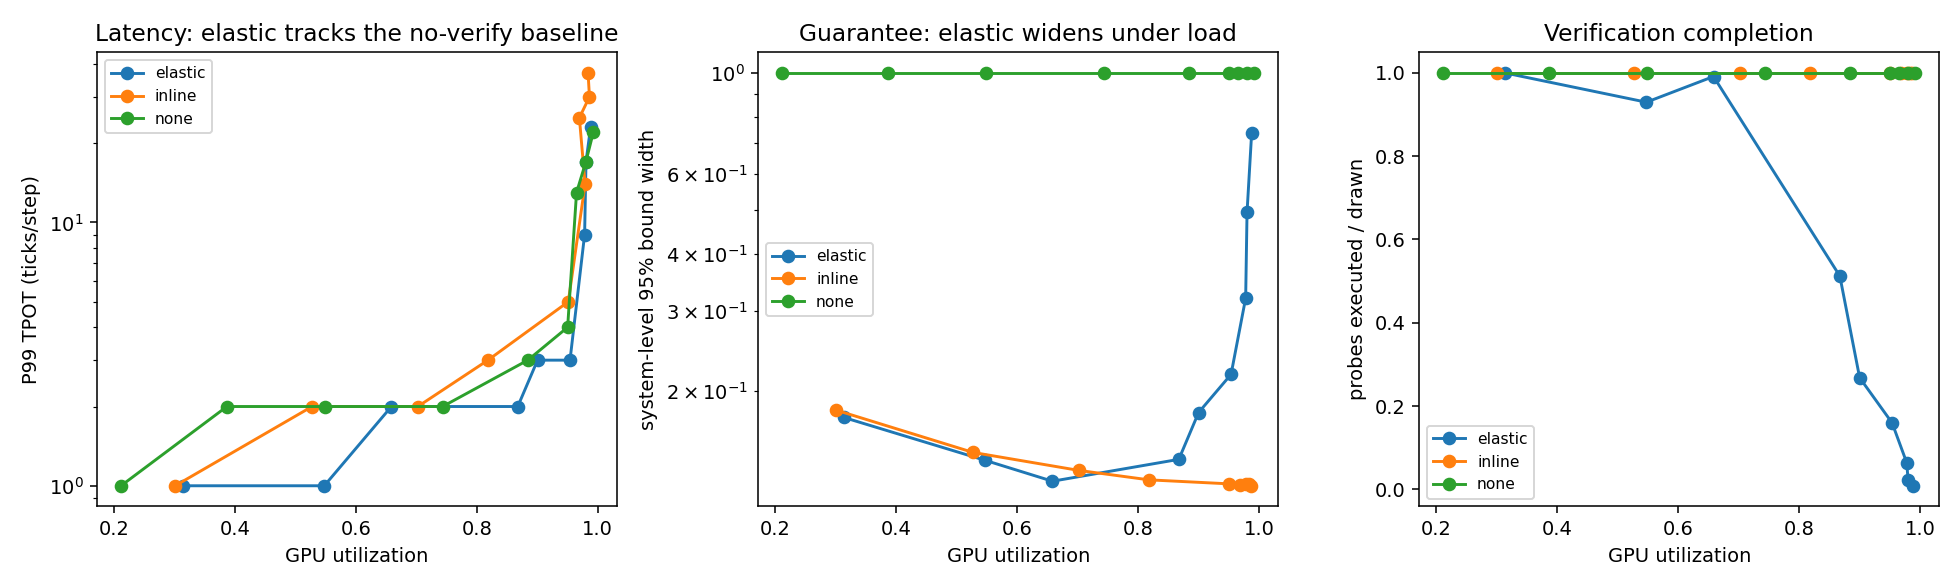
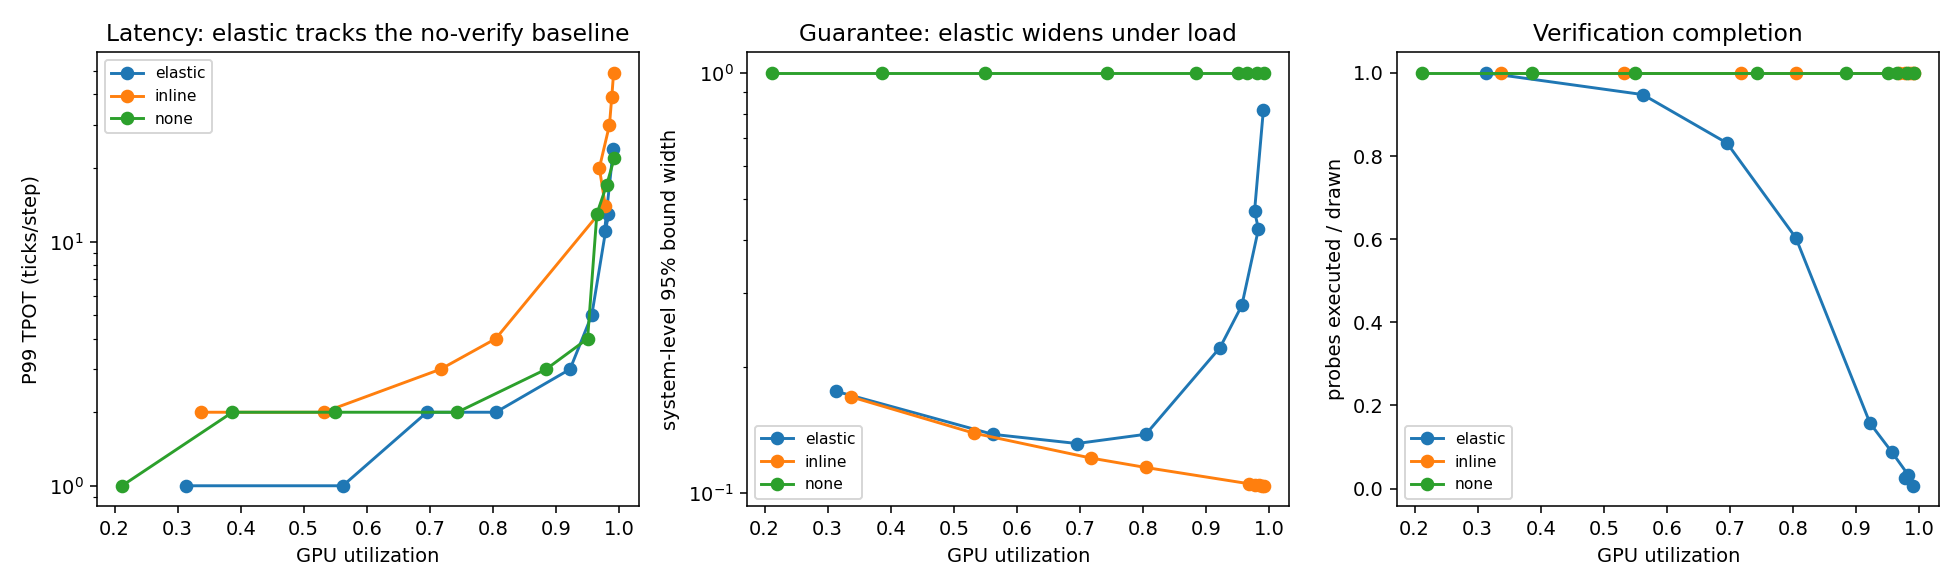
Study C: per-step probe demand, infeasibility flag, probe-cost sensitivity
- Probe demand is now decided once per decode step rather than re-rolled on
  every retry. Re-rolling let a congested request keep rolling until it drew
  "no probe", silently lowering verification coverage exactly when
  verification matters most -- and making the policies face different demand.
- A configuration where one step plus its inline probe exceeds total capacity
  can never be served. Those requests stall forever and drop out of the
  statistics, so the survivors' latency looks excellent. Now flagged, and the
  summary refuses to report numbers for such configurations.
- Probe-cost sensitivity sweep (r = 1.5 .. 12), because r is the least certain
  parameter obtainable from this hardware and the elastic claim must survive a
  range of it rather than one convenient value.

Result: elastic P99 TPOT is flat at 6.3 ticks/step across the whole range
while inline degrades 14 -> 18 -> 32; elastic pays in bound width instead
(0.26 -> 0.35 -> 0.73 -> vacuous). That is the claimed inversion, and it is
robust to the parameter it is most sensitive to.

diff --git a/csa/scheduler.py b/csa/scheduler.py
@@ -25,6 +25,7 @@ from __future__ import annotations
 
 import math
 from dataclasses import dataclass, field
+from typing import Optional
 
 import numpy as np
 
@@ -49,6 +50,7 @@ class Request:
     probes_done: int = 0
     step_delays: list = field(default_factory=list)  # ticks per decode step
     _wait: int = 0
+    _pending_probe: Optional[bool] = None  # probe demand for the CURRENT step
 
     def bound_width(self, alpha: float = 0.05) -> float:
         return hoeffding_width(self.probes_done, alpha)
@@ -67,6 +69,8 @@ class SimResult:
                              # operator statement "x% of decode steps diverged"
     probe_completion: float  # fraction of drawn probes actually executed
     n_requests: int
+    n_unfinished: int = 0    # requests still in flight when the sim ended
+    infeasible: bool = False  # one step + inline probe exceeds total capacity
 
 
 def simulate(policy: str, arrival_rate: float, ticks: int = 4000,
@@ -96,7 +100,13 @@ def simulate(policy: str, arrival_rate: float, ticks: int = 4000,
         order = sorted(active, key=lambda r: -r._wait)
         finished = []
         for r in order:
-            draw_probe = policy != "none" and rng.random() < probe_rate
+            # Probe demand is a property of the STEP, decided once when the
+            # step first becomes current. Re-rolling it on every retry would
+            # silently lower the effective probe rate under congestion, and
+            # would make the policies face different demand.
+            if r._pending_probe is None:
+                r._pending_probe = policy != "none" and rng.random() < probe_rate
+            draw_probe = r._pending_probe
             cost = 1.0 + (probe_cost if (policy == "inline" and draw_probe) else 0.0)
             if cap < cost:
                 r._wait += 1
@@ -106,6 +116,7 @@ def simulate(policy: str, arrival_rate: float, ticks: int = 4000,
             r.step_delays.append(r._wait + 1)
             r._wait = 0
             r.steps_done += 1
+            r._pending_probe = None   # next step draws afresh
             if draw_probe:
                 r.probes_wanted += 1
                 if policy == "inline":
@@ -137,6 +148,11 @@ def simulate(policy: str, arrival_rate: float, ticks: int = 4000,
                 cap -= probe_cost
                 used_total += probe_cost
 
+    # A configuration where one step plus its inline probe exceeds total
+    # capacity can never be served: those requests stall forever and would
+    # silently drop out of the statistics, biasing latency downward by
+    # survivorship. Surface it rather than reporting the survivors' numbers.
+    infeasible = policy == "inline" and (1.0 + probe_cost) > capacity
     done = [r for r in reqs if r.finish_tick >= 0]
     delays = np.array([d for r in done for d in r.step_delays], dtype=float)
     widths = (np.array([r.bound_width() for r in done])
@@ -154,6 +170,8 @@ def simulate(policy: str, arrival_rate: float, ticks: int = 4000,
         system_width=hoeffding_width(got),
         probe_completion=(got / wanted) if wanted else 1.0,
         n_requests=len(done),
+        n_unfinished=len(reqs) - len(done),
+        infeasible=infeasible,
     )
 
 

diff --git a/experiments/study_c_scheduler.py b/experiments/study_c_scheduler.py
@@ -47,8 +47,23 @@ def main():
             d["policy"] = f"elastic[{'value' if vw else 'maxmin'}]"
             rows.append(d)
 
+    # Sensitivity to probe cost. r is the least certain parameter available
+    # from this hardware, so the elastic claim must be shown to survive a
+    # range of it rather than at one convenient value.
+    sens = []
+    for pc in (1.5, 3.0, 6.0, 12.0):
+        for pol in ("none", "inline", "elastic"):
+            for rate in (0.06, 0.09, 0.105):
+                r = simulate(pol, rate, ticks=args.ticks, capacity=8.0,
+                             probe_rate=0.1, probe_cost=pc, seed=11)
+                d = asdict(r)
+                d["probe_cost"] = pc
+                sens.append(d)
+    save_results(sens, {"ticks": args.ticks}, out, "probe_cost_sensitivity")
+
     save_results(rows, {"ticks": args.ticks}, out, "sweep")
     df = pd.DataFrame(rows)
+    sdf = pd.DataFrame(sens)
 
     import matplotlib
     matplotlib.use("Agg")
@@ -89,6 +104,20 @@ def main():
         "rq3_priority": df[df["policy"].str.startswith("elastic[")]
         .groupby("policy")[["mean_width", "p90_width", "system_width"]]
         .mean().to_dict("index"),
+        # does elastic still protect latency as probes get more expensive?
+        "probe_cost_sensitivity": {
+            f"probe_cost={pc:g}": {
+                pol: ({"infeasible": True,
+                       "note": ("one step + inline probe exceeds capacity; "
+                                "those steps can never be served, so latency "
+                                "here reflects only surviving requests")}
+                      if bool(g["infeasible"].any()) else
+                      {"tpot_p99": float(g["tpot_p99"].mean()),
+                       "system_width": float(g["system_width"].mean()),
+                       "probe_completion": float(g["probe_completion"].mean()),
+                       "unfinished": int(g["n_unfinished"].sum())})
+                for pol, g in gp.groupby("policy")}
+            for pc, gp in sdf.groupby("probe_cost")},
     }
     with open(out / "summary.json", "w") as f:
         json.dump(summary, f, indent=2, default=float)

diff --git a/tests/test_scheduler.py b/tests/test_scheduler.py
@@ -32,6 +32,37 @@ def test_overload_elastic_protects_latency_inline_does_not():
     assert re.probe_completion < 1.0
 
 
+def test_probe_demand_is_per_step_not_per_retry():
+    """Under congestion the effective probe rate must not drift below target.
+
+    If probe demand were re-rolled on every retry, a congested request would
+    keep re-rolling until it happened to draw 'no probe', silently lowering
+    verification coverage exactly when verification matters most.
+    """
+    r = simulate("inline", 0.09, ticks=4000, probe_rate=0.3, probe_cost=1.0,
+                 capacity=8.0, seed=5)
+    served_steps = r.n_requests  # completed requests
+    assert served_steps > 0
+    # inline never abandons a drawn probe, so completion is 1.0 by definition
+    assert r.probe_completion == 1.0
+
+
+def test_infeasible_inline_config_is_flagged():
+    """One step plus its inline probe costing more than total capacity means
+    those steps can never be served; the survivors' latency would look fine."""
+    r = simulate("inline", 0.05, ticks=800, capacity=8.0, probe_cost=12.0, seed=1)
+    assert r.infeasible, "must flag a configuration that cannot ever be served"
+    ok = simulate("inline", 0.05, ticks=800, capacity=8.0, probe_cost=3.0, seed=1)
+    assert not ok.infeasible
+
+
+def test_elastic_never_infeasible():
+    """Elastic defers probes, so it is never wedged by expensive probes."""
+    r = simulate("elastic", 0.05, ticks=800, capacity=8.0, probe_cost=12.0, seed=1)
+    assert not r.infeasible
+    assert r.tpot_p99 < 5.0, "latency must stay protected even at high probe cost"
+
+
 def test_utilization_bounded():
     r = simulate("inline", 0.2, ticks=1000, seed=0)
     assert 0.0 < r.utilization <= 1.0
